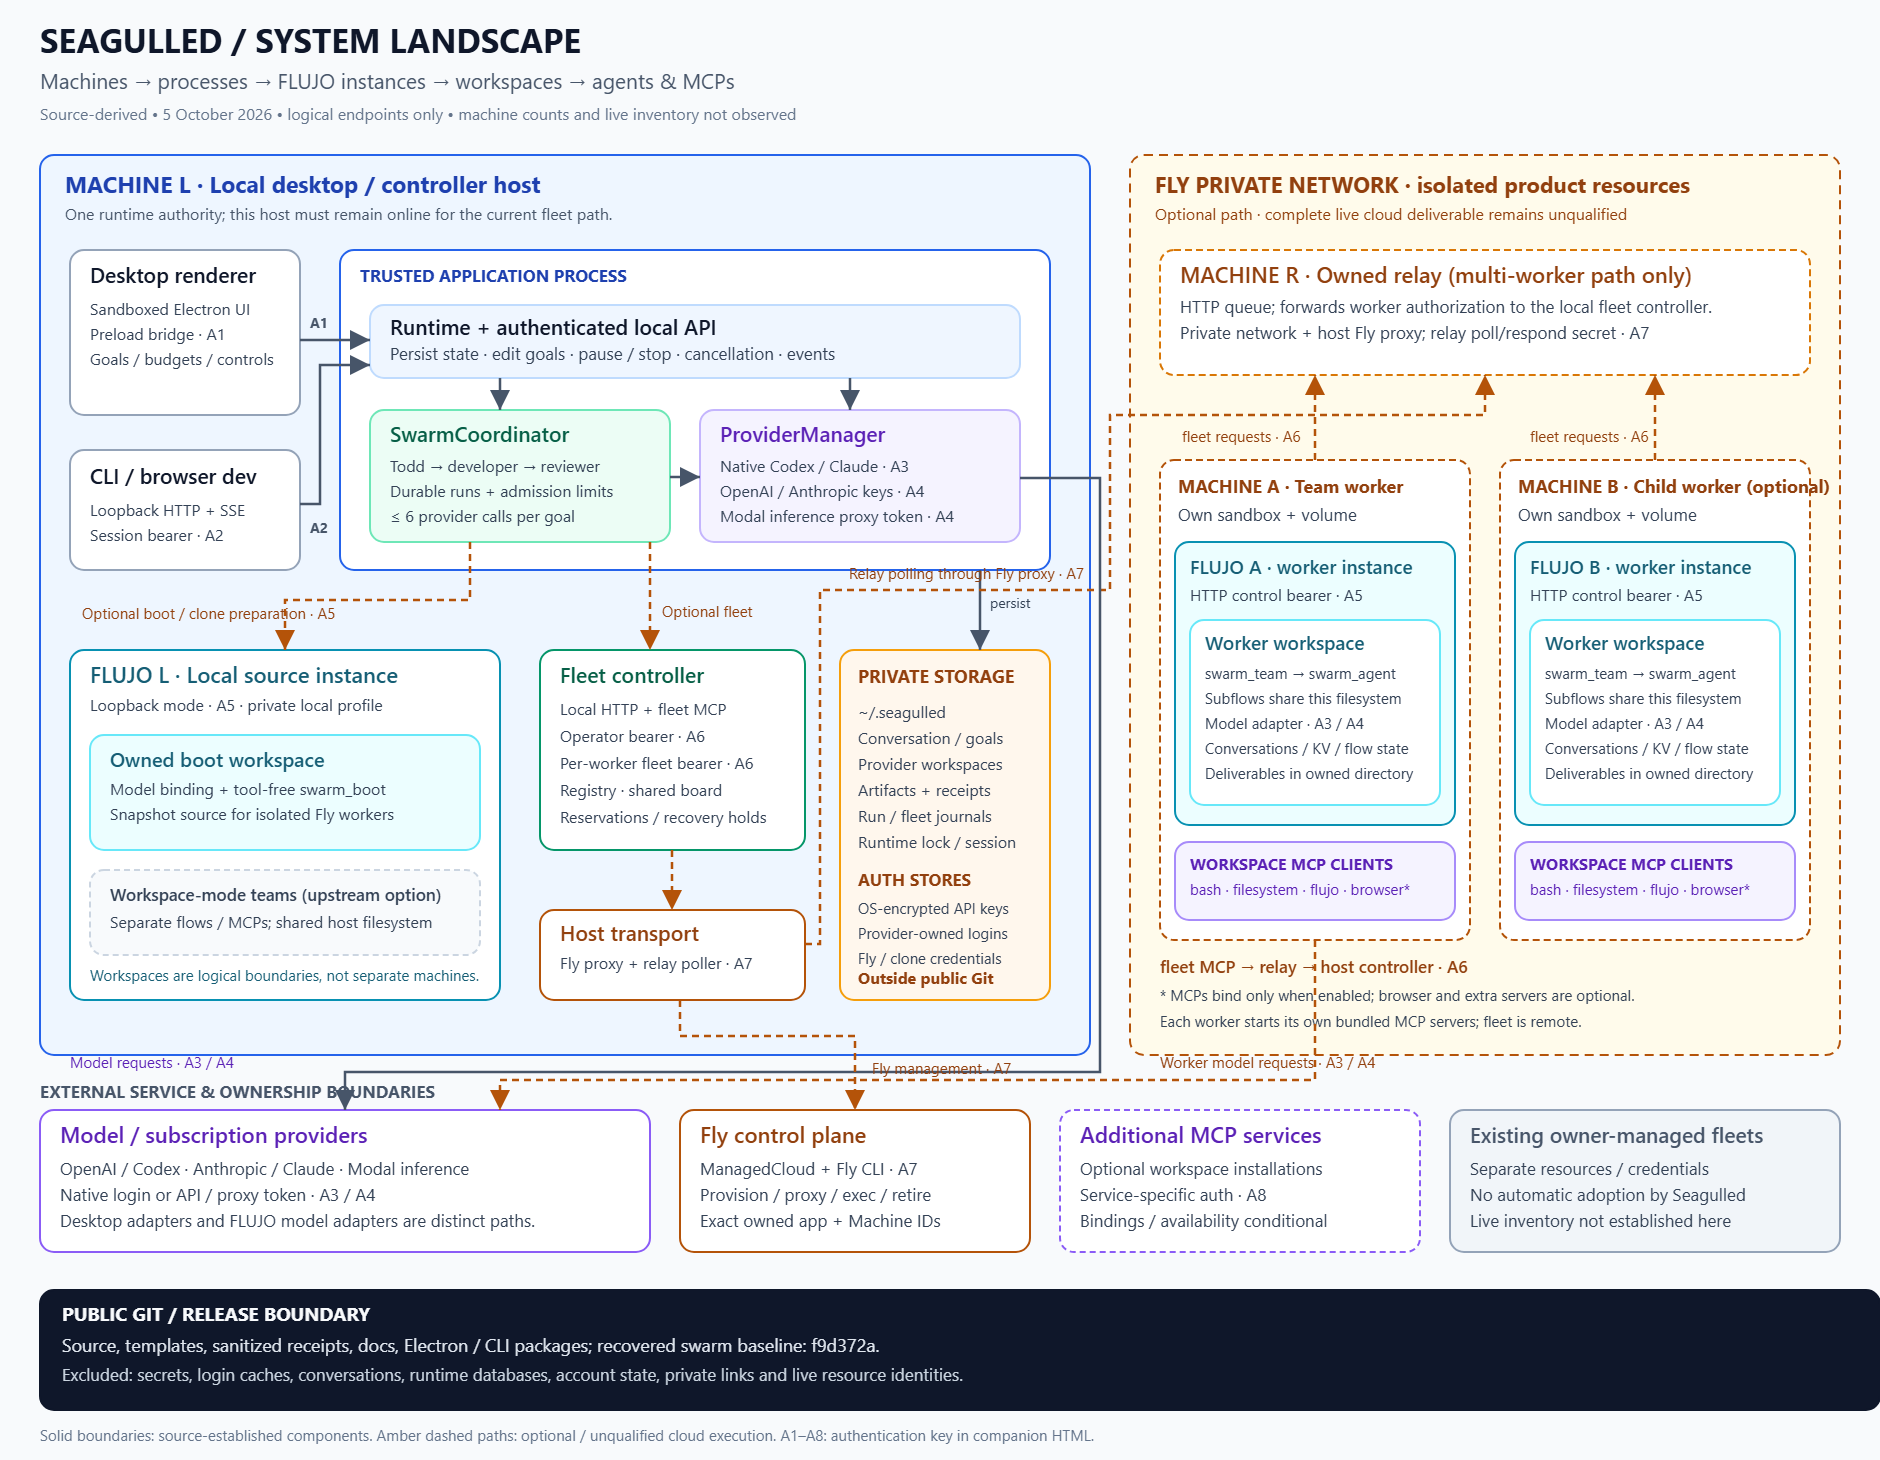
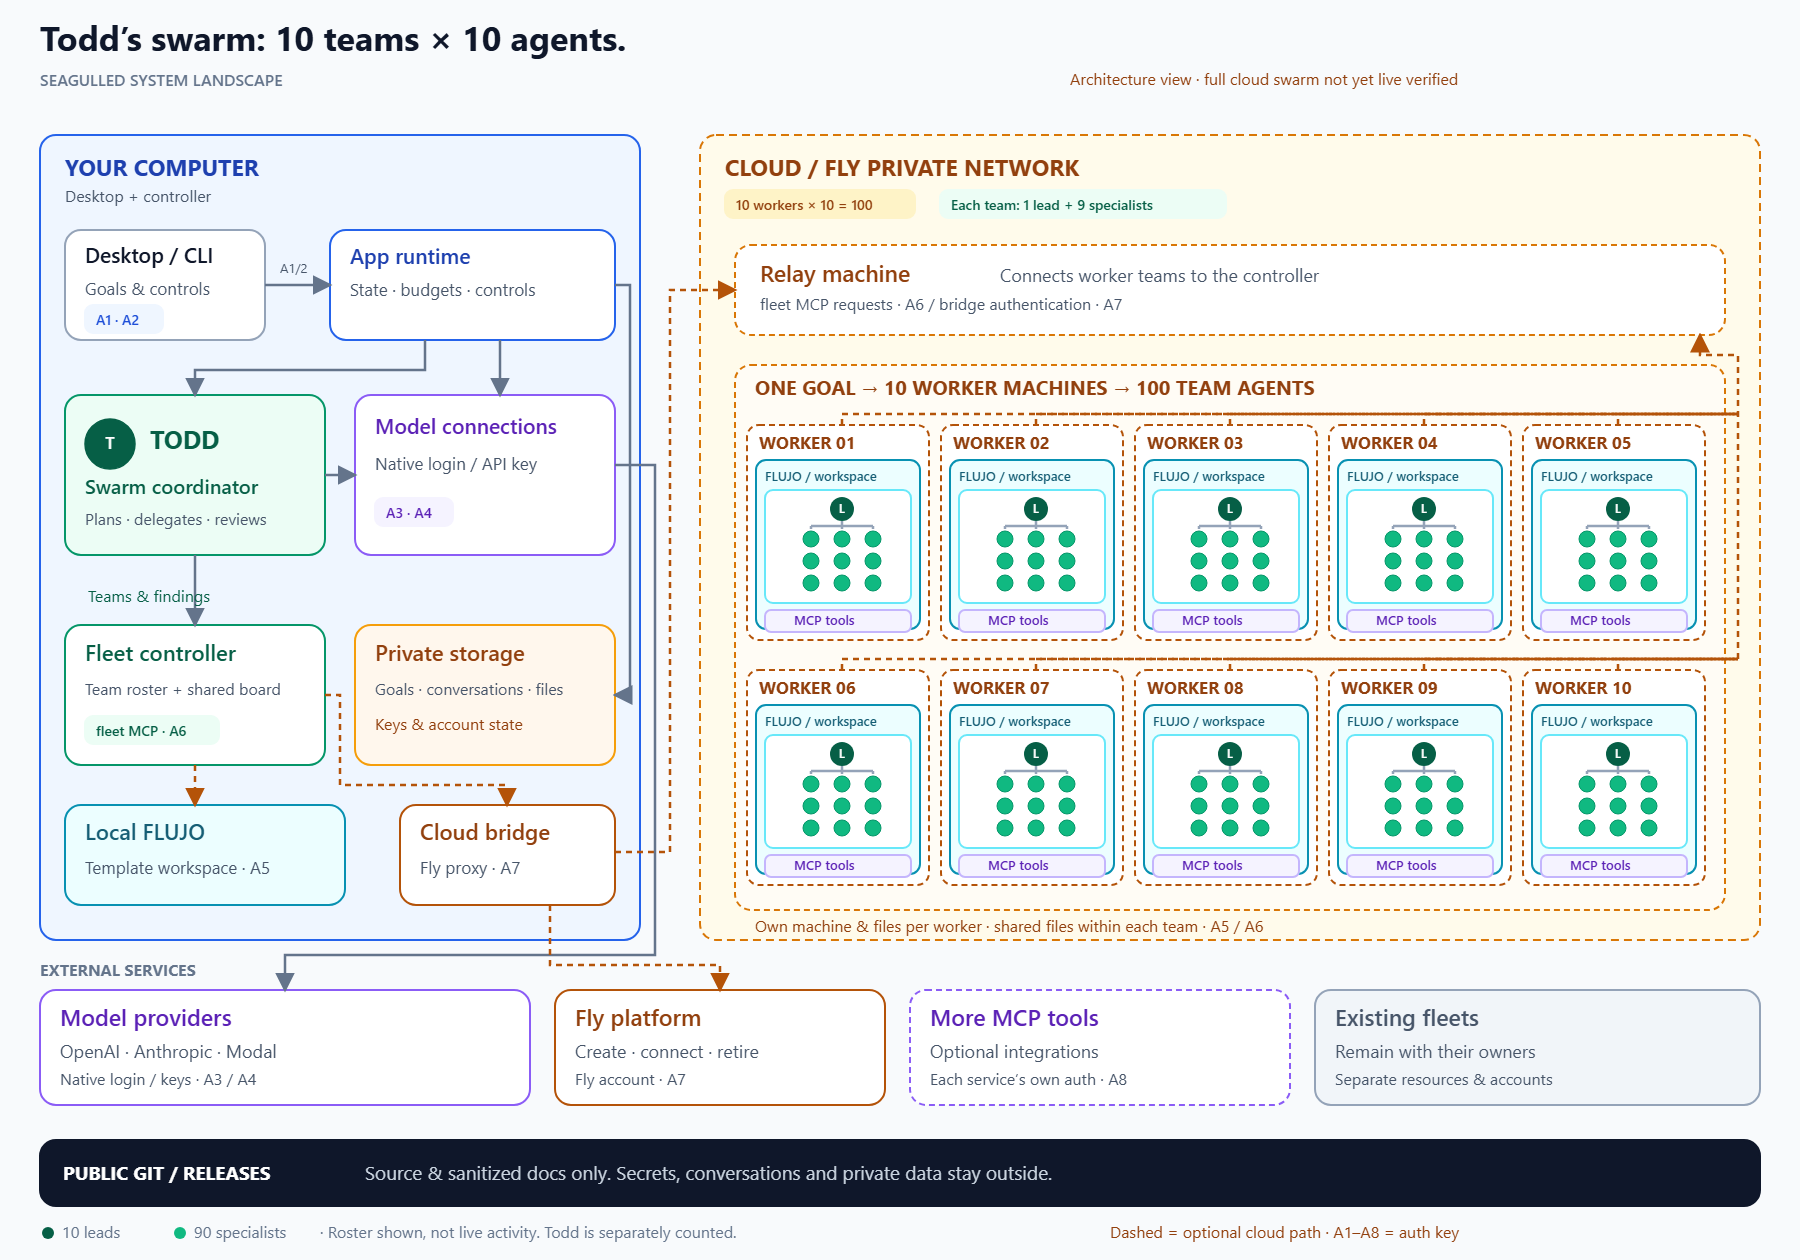
Update README landscape to the 10x10 swarm

Changed region(s): [[0.0, 0.0, 1.0, 0.9905], [0.9333, 0.2476, 0.9644, 0.2786]]

diff --git a/README.md b/README.md
@@ -6,6 +6,6 @@ Download the Windows portable app from [Releases](https://github.com/flujo-app/s
 
 https://github.com/user-attachments/assets/e9a59051-38ae-480f-ab02-e69adafc685d
 
-<img width="1800" height="1260" alt="image" src="https://github.com/user-attachments/assets/51dc3f86-20e7-42e6-ad4c-76a2cb0c28fa" />
+<img width="1800" height="1260" alt="Todd’s 10×10 swarm: ten worker teams, each with one lead and nine specialists" src="docs/system-landscape.png" />
 
 This is an independent, unofficial parody interface, with a fictional Todd persona. No affiliation or endorsement is implied.
